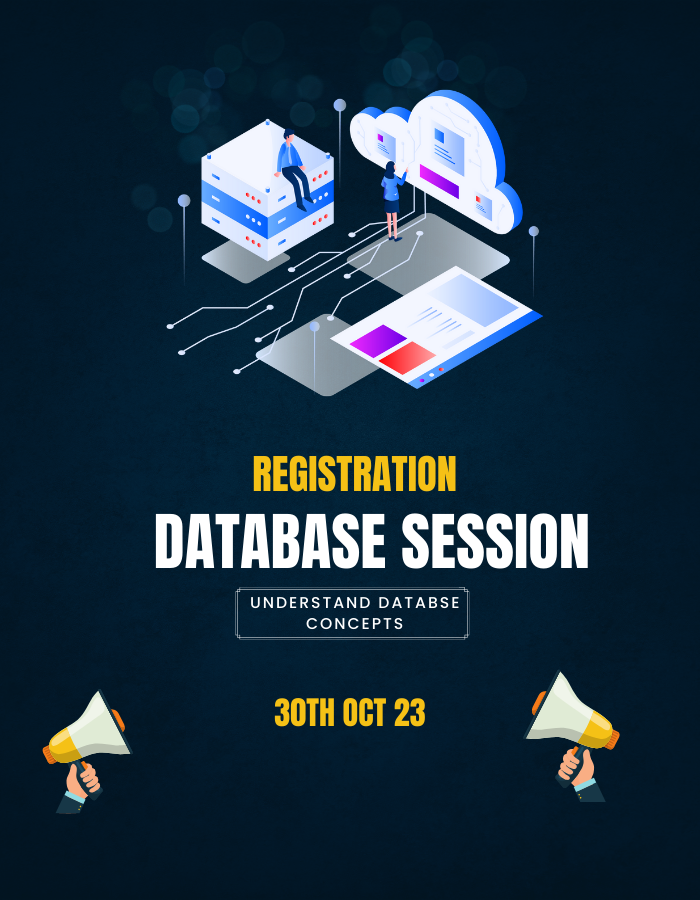
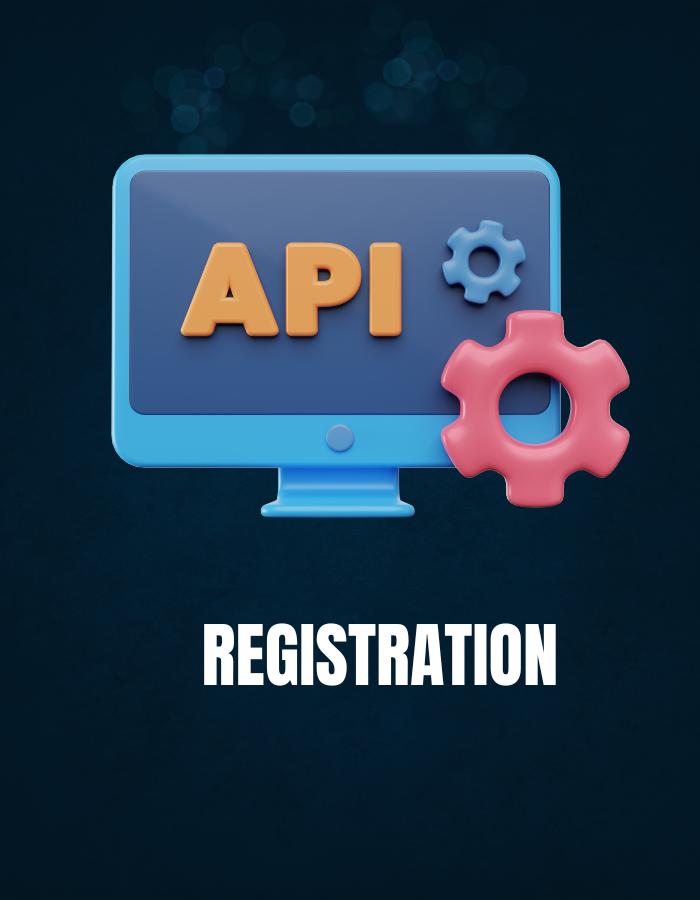
changes

diff --git a/src/app/pages/registration/registration.component.html b/src/app/pages/registration/registration.component.html
@@ -1,71 +1,102 @@
-<section class="h-100 bg-dark">
+<section class=" ">
     <div class="container py-1 h-100">
         <div class="row d-flex justify-content-center align-items-center h-100">
             <div class="col">
                 <div class="card card-registration my-1">
                     <div class="row g-0">
-                        <div class="col-xl-6 d-none d-xl-block">
-                            <img src="assets/banner.png"
-                                alt="Sample photo" class="img-fluid"
-                                style="border-top-left-radius: .25rem; border-bottom-left-radius: .25rem;" />
-                        </div>
-                        <div class="col-xl-6">
+                        <div class="col-xl-12">
                             <div class="card-body p-md-3 text-black">
-                                <h4 class="text-center">Free Database Introduction Webinar 30th Oct</h4>
-                                <p class="text-center">Join What'up channel to get Zoom Meeting details n updates</p>
-                                <p class="text-center">
-                                    <a class="text-center" href="https://whatsapp.com/channel/0029VaBPJvg2f3EPu8pMxt2k" target="_blank" rel="noopener noreferrer">Join Whatsup Channel</a>
-                                </p>
-                               
-                                <hr>
                                 <div class="row">
-                                    <div class="col-md-6 mb-1">
+                                    <div class="col-12 px-5 text-center">
+                                        <h3>API Are Paid Now</h3> 
+                                    </div>
+                                </div>
+                                <div class="row">
+                                    <div class="col-12">
+                                        <p class="text-center">Due To Increase in uses of API from so many Subscriber my sever bandwidth got used and I had to purchase
+                                             <strong>New Server </strong> with proper Bandwidth. So from now on if you want to use the API you need to
+                                             connect me on linkedin or Whatsup To Get payment Details.
+                                        </p>
+                                    </div>
+                                    <div class="col-12">
+                                        <a class="text-center"
+                                        href="https://wa.me/918446364288" target="_blank"
+                                        rel="noopener noreferrer">
+                                        <h3>Click Here To Connect Me on Whatsup</h3>
+                                    </a>
+                                    </div>
+                                </div>
+                                <hr>
+                              
+                                <hr>
+                                <!-- <div class="row">
+                                    <div class="col-md-4 mb-1">
                                         <div class="form-outline">
-                                            <input type="text" #name="ngModel" required [(ngModel)]="registrationObj.name"
+                                            <input type="text" #name="ngModel" required
+                                                [(ngModel)]="registrationObj.name" placeholder="Enter Name"
                                                 class="form-control form-control-lg" />
                                             <label class="form-label" for="form3Example1m">
-                                                Full name  <span class="text-danger">*</span>
-                                            <span class="text-danger" *ngIf="name.touched && name.errors?.['required']">Required</span>
+                                                Full name <span class="text-danger">*</span>
+                                                <span class="text-danger"
+                                                    *ngIf="name.touched && name.errors?.['required']">Required</span>
                                             </label>
                                         </div>
                                     </div>
-                                    <div class="col-md-6 mb-1">
+                                    <div class="col-md-4 mb-1">
                                         <div class="form-outline">
-                                            <input type="number" #mobile="ngModel" [(ngModel)]="registrationObj.mobileNo" minlength="10"
-                                                maxlength="10" required class="form-control form-control-lg" />
+                                            <input type="number" #mobile="ngModel" placeholder="Enter Whatsup No"
+                                                [(ngModel)]="registrationObj.mobileNo" minlength="10" maxlength="10"
+                                                required class="form-control form-control-lg" />
                                             <label class="form-label" for="form3Example1n">
                                                 Mobile No
                                                 <span class="text-danger">*</span>
-                                                <span class="text-danger" *ngIf="mobile.touched && mobile.errors?.['required']">Required</span>
-                                                <span class="text-danger" *ngIf="mobile.touched && mobile.errors?.['minlength']">Min 10 Chars</span>
+                                                <span class="text-danger"
+                                                    *ngIf="mobile.touched && mobile.errors?.['required']">Required</span>
+                                                <span class="text-danger"
+                                                    *ngIf="mobile.touched && mobile.errors?.['minlength']">Min 10
+                                                    Chars</span>
                                             </label>
                                         </div>
                                     </div>
-                                </div>
-
-                                <div class="row">
-                                    <div class="col-md-6 mb-1">
+                                    <div class="col-md-4 mb-1">
                                         <div class="form-outline">
                                             <input type="text" [(ngModel)]="registrationObj.emailId"
-                                                class="form-control form-control-lg" />
+                                                placeholder="Enter Email" class="form-control form-control-lg" />
                                             <label class="form-label" for="form3Example1m1">EmailId</label>
                                         </div>
                                     </div>
-                                    <div class="col-md-6 mb-1">
+                                </div> -->
+
+                                <!-- <div class="row pt-3">
+
+                                    <div class="col-md-4 mb-1">
                                         <div class="form-outline">
                                             <input type="text" [(ngModel)]="registrationObj.linkdinProfileUrl"
+                                                placeholder="Enter Linkdin Profile Ur"
                                                 class="form-control form-control-lg" />
                                             <label class="form-label" for="form3Example1n1">Linkdin Profile Url</label>
                                         </div>
                                     </div>
-                                </div>
 
-                                <div class="form-outline mb-1">
-                                    <input type="checkbox" [(ngModel)]="registrationObj.isWorking" />
-                                    <label class="form-label" for="form3Example8">Are you Working</label>
-                                </div>
+                                    <div class="col-4">
+                                        <div class="form-outline mb-1">
+                                            <input type="text" maxlength="20" [(ngModel)]="registrationObj.city"
+                                                class="form-control form-control-lg" placeholder="Enter Country" />
+                                            <label class="form-label pl-2" for="form3Example97">Your Country</label>
+                                        </div>
+                                    </div>
+                                    <div class="col-4">
+                                        <div class="form-outline mb-1 pt-2">
+                                            <input type="checkbox" [(ngModel)]="registrationObj.isWorking" />
+                                            <label class="form-label" for="form3Example8">Are you Working</label>
+                                        </div>
+                                    </div>
 
-                                <div class="d-md-flex justify-content-start align-items-center mb-1 py-2">
+                                </div> -->
+
+
+
+                                <!-- <div class="d-md-flex justify-content-start align-items-center mb-1 py-2">
 
                                     <h6 class="mb-0 me-4">Gender: </h6>
 
@@ -80,24 +111,44 @@
                                             [(ngModel)]="registrationObj.gender" value="FeMale" />
                                         <label class="form-check-label" for="maleGender">Male</label>
                                     </div>
-                                </div>
-                                <div class="form-outline mb-1" *ngIf="!registrationObj.isWorking">
+                                </div> -->
+                                <!-- <div class="form-outline mb-1" *ngIf="!registrationObj.isWorking">
                                     <input type="text" [(ngModel)]="registrationObj.collegeName"
                                         class="form-control form-control-lg" />
                                     <label class="form-label" for="form3Example99">College Name</label>
+                                </div> -->
+
+
+                                <!-- <div class="form-outline mb-1 pt-3">
+
+                                    <textarea rows="3" placeholder=" Purpose of Using my API"
+                                        [(ngModel)]="registrationObj.gender"
+                                        class="form-control form-control-lg"></textarea>
+                                    <label class="form-label" for="form3Example97">Explain Your Purpose of Using my
+                                        API</label>
                                 </div>
 
-                                <div class="form-outline mb-1">
-                                    <input type="text" [(ngModel)]="registrationObj.city"
-                                        class="form-control form-control-lg" />
-                                    <label class="form-label" for="form3Example97">City</label>
-                                </div>
+                                <div class="d-flex justify-content-center pt-3">
+                                    <button type="button" class="btn btn-warning btn-lg ms-2"
+                                        (click)="onRegister()">Register</button>
+                                </div> -->
 
-                                <div class="d-flex justify-content-end pt-3">
-                                    <button type="button" class="btn btn-light btn-lg">Reset all</button>
-                                    <button type="button" class="btn btn-warning btn-lg ms-2" (click)="onRegister()">Register</button>
+                            </div>
+                            <div class="row">
+                                <div class="col-6">
+                                    <a class="text-center"
+                                        href="https://whatsapp.com/channel/0029Va5FtWpATRSlwWT40g1C" target="_blank"
+                                        rel="noopener noreferrer">
+                                        <h3>Join Whatsup Channel</h3>
+                                    </a>
                                 </div>
+                                <div class="col-6"> 
+                                    <a class="text-center" href="https://www.linkedin.com/in/chetan-jogi-a87148ba"
+                                        target="_blank" rel="noopener noreferrer">
+                                        <h3>Connect me on LinkedIn</h3>
+                                    </a>
 
+                                </div>
                             </div>
                         </div>
                     </div>

diff --git a/src/app/pages/registration/registration.component.ts b/src/app/pages/registration/registration.component.ts
@@ -25,7 +25,7 @@ export class RegistrationComponent {
 
 
   onRegister() {
-    this.http.post("https://freeapi.miniprojectideas.com/api/Webinar/CreateNewRegistration", this.registrationObj).subscribe((res:any)=>{
+    this.http.post("https://freeapi.gerasim.in/api/Webinar/CreateNewRegistration", this.registrationObj).subscribe((res:any)=>{
       if(res.result) {
         alert("Registration Successful");
       } else {
